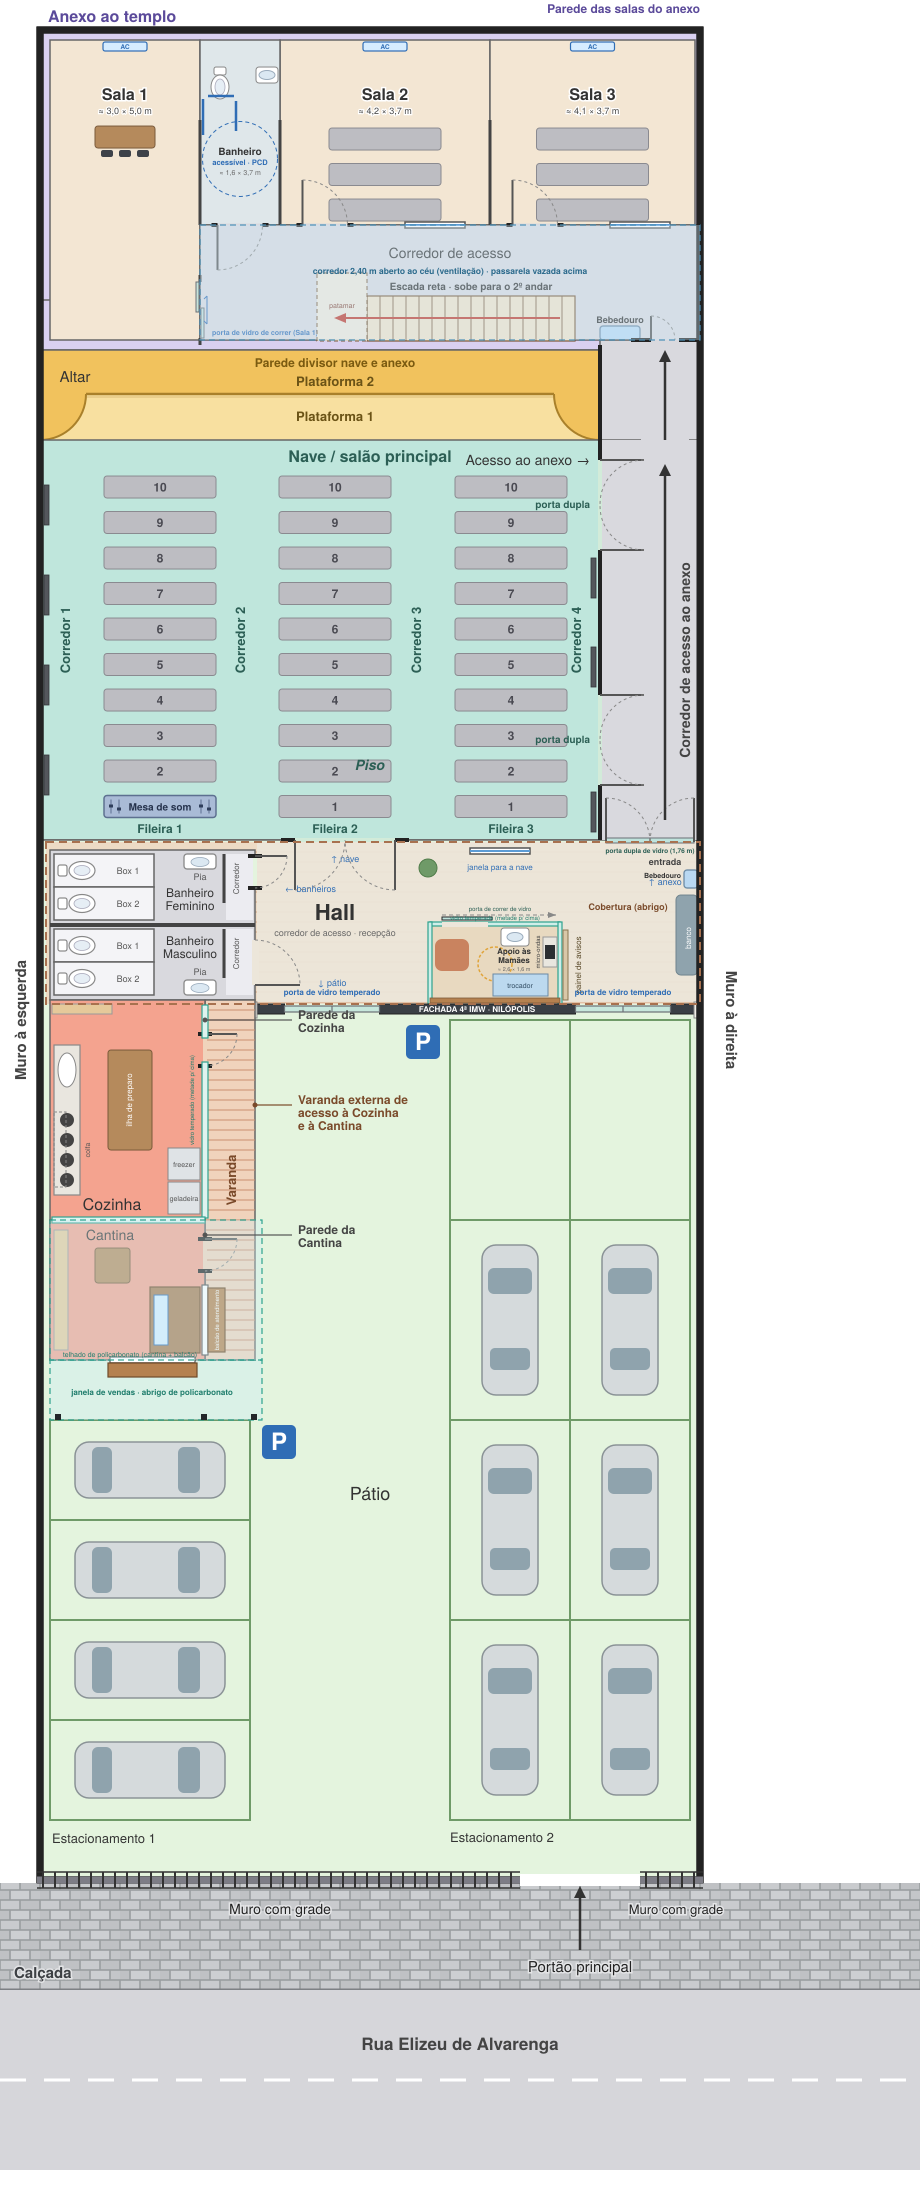
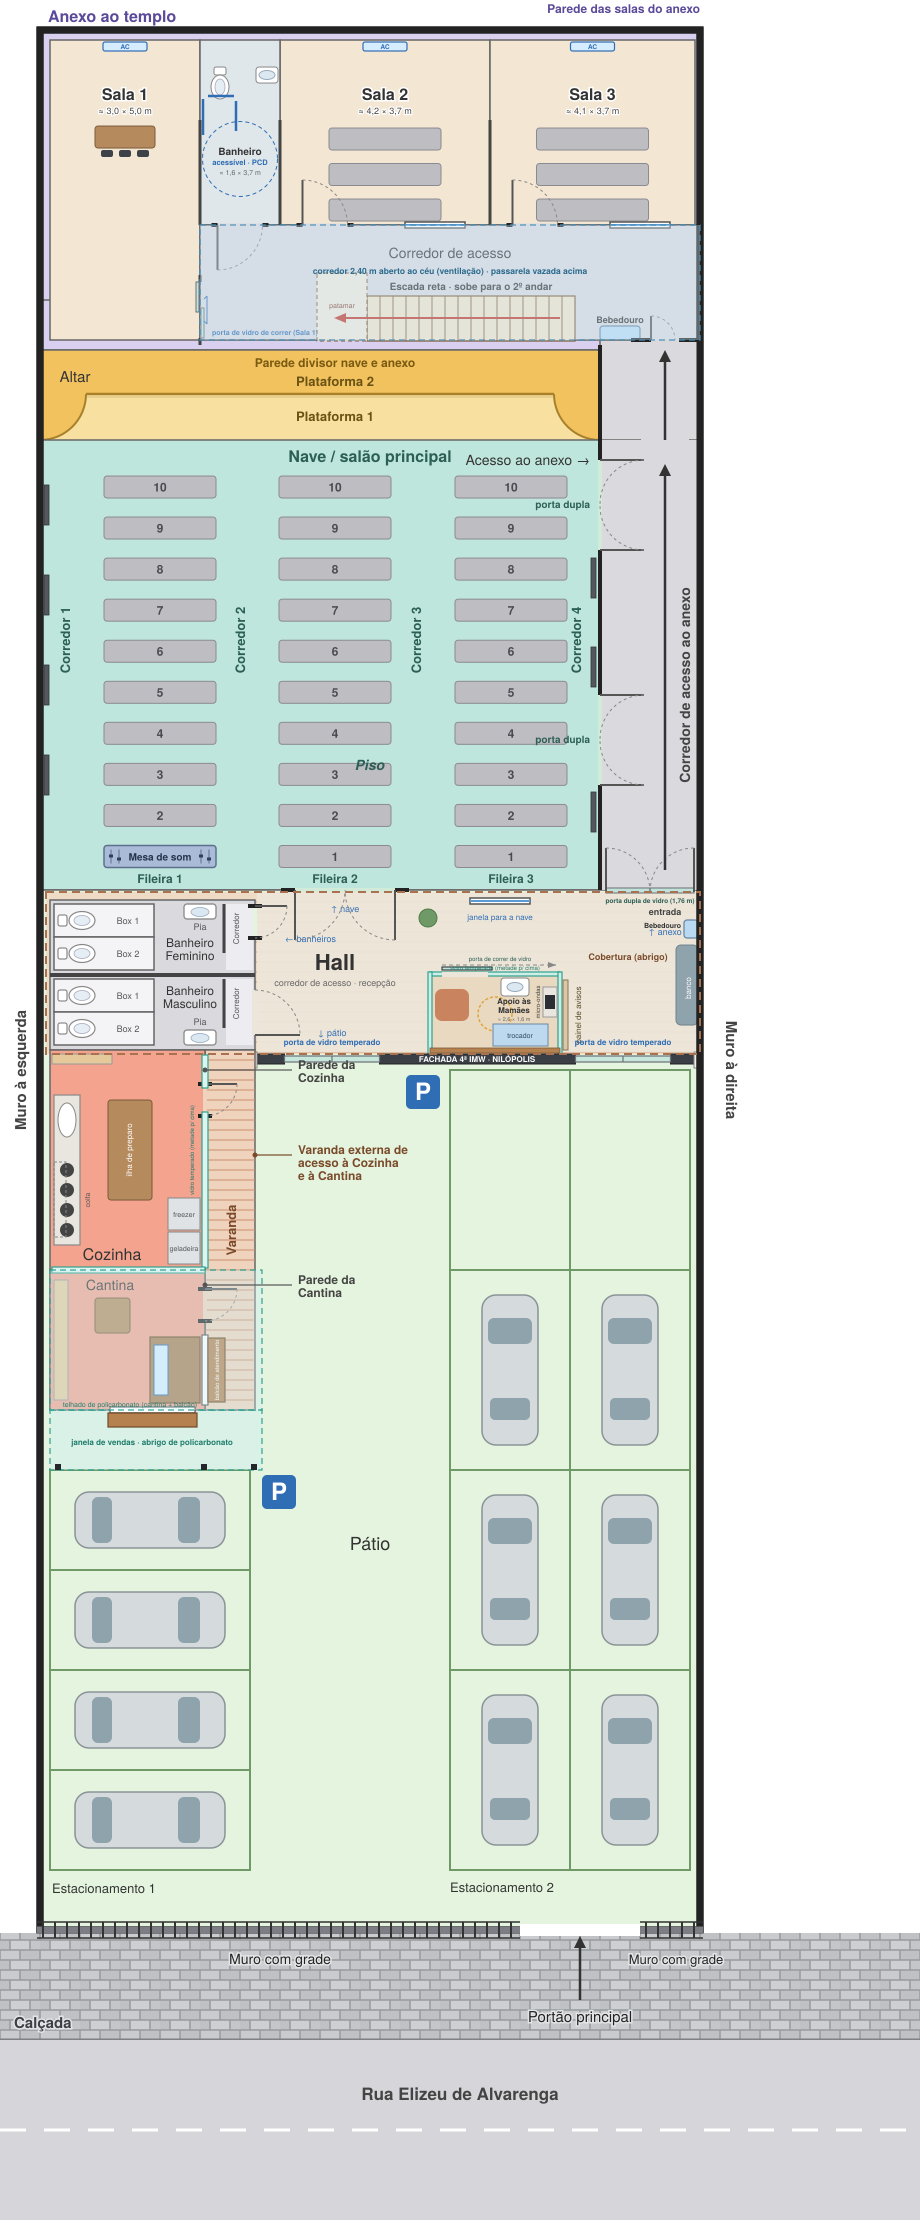
Etapa 89: nave +1,0 m de comprimento (hall, pátio e terreno acompanham; só o espaço entre bancos aumenta)
Claude-Session: https://claude.ai/code/session_015gh4tS64wXyJ2ghbw66cFX

diff --git a/projeto3/maquete.html b/projeto3/maquete.html
@@ -122,6 +122,9 @@
   var S = 0.02;                       // 50 px da planta = 1 unidade (~1 m)
   function X(px){ return (px - 370) * S; }
   function Z(py){ return (py - 900) * S; }
+  // Etapa 89: a nave ganha 1,0 m de comprimento (a parede sul avança); hall, pátio e frente do terreno só se deslocam para o sul, sem mudar de tamanho
+  var NEXT = 50 * S, ZB = Z(720), ZT = ZB - 0.15, BP = 35.5 + 50 / 9, EXTSKIP = false;   // BP = novo passo entre os bancos (px): 0,71 m -> ≈ 0,82 m
+  function nzw(z){ return z >= ZT ? z + NEXT : z; }
 
   var canvas = document.getElementById('c');
   var renderer = new THREE.WebGLRenderer({ canvas: canvas, antialias: true });
@@ -176,7 +179,7 @@
   sun.position.set(22, 30, 19);
   sun.castShadow = true;
   sun.shadow.mapSize.set(SMALL ? 1024 : 2048, SMALL ? 1024 : 2048); sun.shadow.radius = 2.5;
-  var sc = sun.shadow.camera; sc.left = -32; sc.right = 32; sc.top = 34; sc.bottom = -30; sc.near = 1; sc.far = 130;
+  var sc = sun.shadow.camera; sc.left = -32; sc.right = 32; sc.top = 35; sc.bottom = -30; sc.near = 1; sc.far = 130;
   sun.shadow.bias = -0.0004;
   scene.add(sun);
   var inner = new THREE.PointLight(0xfff0d8, 0.28, 24, 1.5); inner.position.set(0, 3.8, -9.5); scene.add(inner);
@@ -224,7 +227,7 @@
   function box(w, h, d, color, x, y, z, parent, o){
     o = o || {};
     var m = new THREE.Mesh(new THREE.BoxGeometry(w, h, d), o.material || mat(color, o.mat));
-    m.position.set(x, y, z);
+    m.position.set(x, y, z); if (EXTSKIP) m.userData.noext = true;
     m.castShadow = o.cast !== false; m.receiveShadow = true;
     (parent || root).add(m);
     return m;
@@ -592,12 +595,14 @@
     [385, 502, 620].forEach(function(py){ ventilador(X(600) - 0.07, -1, py, 2.5); });   // lado das portas: acima das portas (385, 620) e entre as placas (502)
     // ---- 2 ar-condicionados (split) na parede que divide a nave e o hall (face interna, voltados para a nave) ----
     var splitBranco = new THREE.MeshStandardMaterial({ color: 0xffffff, roughness: 0.45, emissive: 0xa8a8a8 });
+    EXTSKIP = true;
     [X(170), X(510)].forEach(function(sx){
-      var zf = Z(720) - 0.125;
+      var zf = Z(720) + NEXT - 0.125;   // Etapa 89: acompanham a parede sul
       box(1.15, 0.3, 0.22, 0, sx, 2.5, zf - 0.12, null, { material: splitBranco });   // branco (emissivo leve para não escurecer na sombra)
       box(1.0, 0.03, 0.02, 0x9aa0a6, sx, 2.4, zf - 0.235, null, { cast: false });
       box(0.04, 0.03, 0.01, 0x44d17a, sx + 0.45, 2.55, zf - 0.232, null, { cast: false });
     });
+    EXTSKIP = false;
 
   })();
   muro(false, X(40), Z(1240), (1760 - 720) * S, BH, 0.22); muro(false, X(700), Z(1240), (1760 - 720) * S, BH, 0.22);   // Muro à esquerda / à direita
@@ -676,7 +681,8 @@
       var out = new THREE.Group(), mm = new THREE.Mesh(bg, crowdMat); mm.castShadow = true; out.add(mm); return out;
     }
     // px,py na planta; fy = altura do piso; th = direção do olhar (0 = +z, PI = -z, PI/2 = +x, -PI/2 = -x); pose: 'stand' | 'sit' | 'talk'
-    function person(px, py, fy, th, pose, sc){
+    function person(px, py, fy, th, pose, sc, fixed){
+      if (!fixed && py >= 720) py += 50;   // Etapa 89: hall, pátio e rua acompanham a parede sul da nave
       var i = n++, skin = cl(skins[(i * 3 + 1) % skins.length], 0.6), shirt = cl(shirts[(i * 7 + 2) % shirts.length]), pants = cl(pantsC[(i * 5 + 1) % pantsC.length]), hair = cl(hairs[(i * 11 + 3) % hairs.length], 0.9), shoe = cl(0x16171a, 0.6);
       var g = new THREE.Group(), up = new THREE.Group(), long = (i % 3 === 1);
       if (pose === 'sit'){
@@ -735,9 +741,9 @@
     var N = -Math.PI, PI = Math.PI;
     // nave: fiéis sentados nos bancos (olhando para o altar) — [fileira, banco, posições em px dentro do banco]
     [[0, 3, [30, 60]], [0, 5, [25]], [0, 6, [70, 95]], [0, 7, [40]], [1, 2, [35, 65, 90]], [1, 4, [55]], [1, 5, [30, 85]], [1, 7, [60]], [1, 8, [40, 75]], [2, 3, [45, 80]], [2, 5, [30]], [2, 6, [60, 90]], [2, 8, [50]]].forEach(function(r){
-      r[2].forEach(function(o){ person([104, 279, 455][r[0]] + o, 356 + r[1] * 35.5 + 14, 0.08, PI, 'sit'); });
+      r[2].forEach(function(o){ person([104, 279, 455][r[0]] + o, 356 + r[1] * BP + 14, 0.08, PI, 'sit', 1, true); });
     });
-    person(160, 704, 0.08, PI, 'stand');                                                   // operador da mesa de som
+    person(160, 704 + 9 * (BP - 35.5) + 0.5, 0.08, PI, 'stand', 1, true);                                                   // operador da mesa de som
     // altar: dirigente no centro e músicos
     person(335, 292, 0.2, 0, 'talk'); person(285, 290, 0.2, 0, 'stand'); person(385, 290, 0.2, 0, 'stand');
     person(262, 262, 0.4, 0, 'stand'); person(110, 262, 0.4, 0, 'stand'); person(560, 262, 0.4, 0, 'sit');
@@ -762,7 +768,7 @@
         var slots = [18, 45, 72, 99];
         for (var s = 0; s < slots.length && have.length < target; s++){
           var o = slots[s] + Math.round((rnd() - 0.5) * 8);
-          if (have.every(function(h){ return Math.abs(h - o) > 24; })){ have.push(o); person([104, 279, 455][r] + o, 356 + b * 35.5 + 14, 0.08, PI, 'sit', rnd() < 0.12 ? 0.62 : 1); }
+          if (have.every(function(h){ return Math.abs(h - o) > 24; })){ have.push(o); person([104, 279, 455][r] + o, 356 + b * BP + 14, 0.08, PI, 'sit', rnd() < 0.12 ? 0.62 : 1, true); }
         }
       }
     })();
@@ -770,7 +776,7 @@
       var PP = new Float32Array(len), NN = new Float32Array(len), CC = new Float32Array(len), off = 0;
       crowdParts.forEach(function(gm){ PP.set(gm.attributes.position.array, off); NN.set(gm.attributes.normal.array, off); CC.set(gm.attributes.color.array, off); off += gm.attributes.position.array.length; });
       var bg = new THREE.BufferGeometry(); bg.setAttribute('position', new THREE.BufferAttribute(PP, 3)); bg.setAttribute('normal', new THREE.BufferAttribute(NN, 3)); bg.setAttribute('color', new THREE.BufferAttribute(CC, 3));
-      var cm = new THREE.Mesh(bg, crowdMat); cm.castShadow = true; root.add(cm); peopleList.push(cm); })();
+      var cm = new THREE.Mesh(bg, crowdMat); cm.castShadow = true; cm.userData.noext = true; root.add(cm); peopleList.push(cm); })();
   })();
   // MAQUETE 3 (Etapa 58): câmeras de segurança pequenas (tipo bullet, com suporte, quebra-sol, lente e LED vermelho) em pontos estratégicos
   (function(){
@@ -980,9 +986,10 @@
 
   // ---------- Bancos: 4 fileiras x 10 (Mesa de som no lugar do Banco 1 da Fileira 1) ----------
   var pewX = [104, 279, 455];   // PROJETO 2: corredores nas extremidades e entre as fileiras (aprox. 1,3 m cada)   // PROJETO 2: Fileira 4 eliminada (dá lugar ao corredor de acesso ao anexo)
+  EXTSKIP = true;   // Etapa 89: bancos e mesa de som já nascem na posição nova (passo BP)
   pewX.forEach(function(x0, fi){
     for (var k = 0; k < 10; k++){
-      var y0 = 356 + k * 35.5;
+      var y0 = 356 + k * BP;
       var cx = X(x0 + 56), cz = Z(y0 + 11);
       if (fi === 0 && k === 9){
         box(2.24, 0.9, 0.44, C.mesa, cx, 0.08 + 0.45, cz);
@@ -998,9 +1005,10 @@
       box(2.24, 0.55, 0.08, 0, cx, 0.08 + 0.45 + 0.27, Z(y0 + 20), null, { material: woodM });        // encosto (moldura de madeira, lado oposto ao altar)
       box(2.06, 0.38, 0.05, 0, cx, 0.08 + 0.45 + 0.30, Z(y0 + 20) - 0.065, null, { material: estofado });   // encosto estofado
       var rail = new THREE.Mesh(new THREE.CylinderGeometry(0.04, 0.04, 2.24, 10), woodM); rail.rotation.z = Math.PI / 2;     // fecho arredondado do encosto
-      rail.position.set(cx, 0.08 + 0.45 + 0.545, Z(y0 + 20)); rail.castShadow = true; rail.receiveShadow = true; root.add(rail);
+      rail.position.set(cx, 0.08 + 0.45 + 0.545, Z(y0 + 20)); rail.castShadow = true; rail.receiveShadow = true; rail.userData.noext = true; root.add(rail);
     }
   });
+  EXTSKIP = false;
 
   // ---------- Cabines sanitárias: divisória padrão (painel laminado com vão de 15 cm no piso) e porta de cabine ----------
   var divMat = mat(0xdfe5e8, { roughness: 0.6 }), divDoorMat = mat(0xc4d3da, { roughness: 0.6 });
@@ -1876,7 +1884,7 @@
    [370, 1200, 3.6, 0xfff0d8, 1.4, 17],                                                                                                          // pátio
    [560, 1600, 3.4, 0xfff0d8, 1.2, 16],                                                                                                          // estacionamentos
    [480, 885, 3.4, 0xeaf4ff, 1.2, 14]].forEach(function(q){                                                                                      // fachada
-    var l = new THREE.PointLight(q[3], 0, q[5], 1.6); l.position.set(X(q[0]), q[2], Z(q[1])); l.userData.k = q[4]; nightLights.push(l);   // só entram na cena à noite (luzes apagadas pesariam em todos os materiais)
+    var l = new THREE.PointLight(q[3], 0, q[5], 1.6); l.position.set(X(q[0]), q[2], nzw(Z(q[1]))); l.userData.k = q[4]; nightLights.push(l);   // só entram na cena à noite (luzes apagadas pesariam em todos os materiais)
   });
   (function(){
     var n = 450, pos = new Float32Array(n * 3);
@@ -1910,7 +1918,7 @@
     [].forEach.call(bar.children, function(b){ b.classList.toggle('active', b.dataset.id === v.id); });
     if (v.roof !== undefined) setRoof(v.roof); else setRoof(true);
     // Etapa 83: nomes só aparecem quando a pessoa clica em Nomes (as vistas não ligam mais)
-    var p1 = new THREE.Vector3().fromArray(v.pos), t1 = new THREE.Vector3().fromArray(v.tgt);
+    var p1 = new THREE.Vector3(v.pos[0], v.pos[1], nzw(v.pos[2])), t1 = new THREE.Vector3(v.tgt[0], v.tgt[1], nzw(v.tgt[2]));   // Etapa 89: câmeras do hall e do pátio acompanham
     if (instant){ camera.position.copy(p1); controls.target.copy(t1); controls.update(); return; }
     anim = { t: 0, p0: camera.position.clone(), t0: controls.target.clone(), p1: p1, t1: t1 };
   }
@@ -1947,7 +1955,7 @@
     var hint = document.querySelector('.hint'), hint0 = hint ? hint.textContent : '', pend = null;
     function normal(){ controls.minDistance = 1.5; controls.maxDistance = 95; controls.enableZoom = true; controls.enablePan = true; controls.rotateSpeed = 1; controls.maxPolarAngle = Math.PI * 0.499; controls.minPolarAngle = 0; pend = null; if (hint) hint.textContent = hint0; resize(); }
     function applyFp(v){
-      var d = new THREE.Vector3().fromArray(v.tgt).sub(new THREE.Vector3().fromArray(v.pos)).normalize();
+      var d = new THREE.Vector3(v.tgt[0], v.tgt[1], nzw(v.tgt[2])).sub(new THREE.Vector3(v.pos[0], v.pos[1], nzw(v.pos[2]))).normalize();
       controls.target.copy(camera.position).addScaledVector(d, 0.02);
       camera.fov = 74; camera.updateProjectionMatrix(); controls.minDistance = 0.005; controls.maxDistance = 0.06; controls.enableZoom = false; controls.enablePan = false; controls.rotateSpeed = -0.35;
       controls.maxPolarAngle = Math.PI * 0.97; controls.minPolarAngle = Math.PI * 0.03;
@@ -2102,6 +2110,30 @@
         var m = new THREE.Mesh(geo, b.mat); m.castShadow = b.cast; m.receiveShadow = b.recv; m.renderOrder = b.ro; group.add(m);
       });
     }
+    // ---- Etapa 89: NAVE +1,0 m de comprimento. A parede sul da nave avança; o que está ao sul (hall, pátio, rua) só se desloca; peças que ligam as duas partes esticam ----
+    (function(){
+      scene.updateMatrixWorld(true);
+      function isId(o){ return o.position.lengthSq() === 0 && o.rotation.x === 0 && o.rotation.y === 0 && o.rotation.z === 0 && o.scale.x === 1 && o.scale.y === 1 && o.scale.z === 1; }
+      function stretch(c){
+        c.updateMatrixWorld(true);
+        var g = c.geometry.clone(); g.applyMatrix4(c.matrixWorld);
+        var P = g.attributes.position; for (var i = 0; i < P.count; i++){ var z = P.getZ(i); if (z >= ZT) P.setZ(i, z + NEXT); }
+        P.needsUpdate = true; g.computeBoundingBox(); g.computeBoundingSphere();
+        c.geometry = g; c.position.set(0, 0, 0); c.rotation.set(0, 0, 0); c.scale.set(1, 1, 1); c.updateMatrix(); c.updateMatrixWorld(true);
+      }
+      function walk(o){
+        o.children.slice().forEach(function(c){
+          if (c.userData.noext || c === labelGroup) return;
+          if (c.isGroup && isId(c)){ walk(c); return; }
+          var bb = new THREE.Box3().setFromObject(c); if (bb.isEmpty()) return;
+          if (bb.max.z < ZT) return;
+          if (bb.min.z >= ZT || bb.min.z >= ZB - 0.9 || !c.isMesh || !isId(o)){ if (isId(o)) c.position.z += NEXT; else console.warn('nave+: não deslocado', c.type); return; }
+          stretch(c);
+        });
+      }
+      scene.children.slice().forEach(function(c){ if (c.isGroup && c !== labelGroup) walk(c); });
+      labelGroup.children.forEach(function(c){ if (c.position.z >= ZT) c.position.z += NEXT; });
+    })();
     scene.children.slice().forEach(function(c){ if (c.isGroup && c !== labelGroup) mergeStatic(c); });
   })();
   window.__ready = true;
